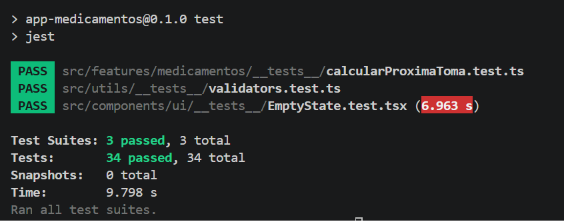
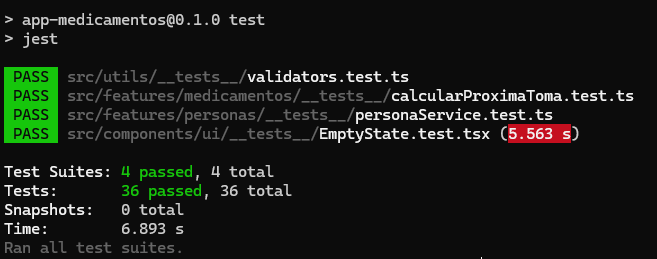
docs: actualizar README al estado del Parcial 2 y nueva captura
- Documenta funcionalidades de Unidad 8 y 9 (QR, Ubicacion, Contactos, Multimedia).

- Actualiza la estructura de carpetas con los nuevos servicios y tests.

- Reemplaza la captura de tests por la de 36 pruebas aprobadas.

- Actualiza version requerida de Node.

Changed region(s): [[0.0, 0.2443, 0.9645, 0.5701], [0.0, 0.5973, 1.0, 1.0], [0.0, 0.0543, 0.422, 0.19]]

diff --git a/README.md b/README.md
@@ -26,7 +26,7 @@ De las 5 opciones propuestas en el parcial, elegí **Recordatorio de medicación
 
 ### Requisitos previos
 
-- **Node.js 18+** (recomendado 22)
+- **Node.js 22.13.0** (versión utilizada en el desarrollo)
 - **Expo Go** instalado en el celular (Android o iOS) — [Play Store](https://play.google.com/store/apps/details?id=host.exp.exponent) / [App Store](https://apps.apple.com/app/expo-go/id982107779)
 - Para conexión LAN, PC y celular en **la misma red WiFi**
 
@@ -75,7 +75,7 @@ npm test
 
 Las pruebas cubren validaciones de formularios, cálculo de próximas tomas y el componente `EmptyState`.
 
-Resultado de la ejecución de Jest: 3 suites y 34 pruebas aprobadas.
+"Resultado de la ejecución de Jest: 4 suites y 36 pruebas aprobadas."
 
 ![Resultado de npm test](docs/test-result.svg)
 
@@ -87,65 +87,71 @@ La [captura original](docs/test.png) también queda guardada en `docs/`.
 
 ### Funcionalidades actuales
 
-- Cada cuenta tiene una ficha propia y puede crear fichas locales para otras personas. Los medicamentos se asignan a una ficha y Home permite cambiar entre ellas.
-- Los medicamentos admiten horarios por intervalo o por horas específicas del día, indicación opcional sobre comidas, observaciones y foto de referencia.
-- Se pueden registrar tomas realizadas u omitidas, consultar el historial y ver el próximo aviso.
-- Las tomas realizadas pueden guardar la dirección o las coordenadas obtenidas desde la ubicación del dispositivo; el historial muestra el lugar cuando está disponible.
-- Las notificaciones locales se programan según el plan cuando la plataforma y los permisos lo permiten. El aviso opcional de prueba no cambia el horario del medicamento.
-- Las fotos de medicamentos y la imagen de perfil se eligen con cámara o galería, se procesan y se guardan en el dispositivo.
-- Las fichas de otras personas pueden incluir un avatar; Home muestra las imágenes disponibles junto al saludo del usuario, la persona activa y cada opción del selector.
-- Las fichas de seguimiento permiten agregar y editar nombre, vínculo y contacto de emergencia desde la agenda del dispositivo.
-- El alta de medicamentos puede completar nombre y dosis al escanear un código QR con el formato `Nombre|Dosis`.
-- Desde la lista de fichas de seguimiento se puede tocar un nombre para abrir en Home los medicamentos de esa persona o los propios.
-- La interfaz tiene tema claro/oscuro, formularios adaptados al teclado, componentes de carga/error/vacío y etiquetas de accesibilidad en acciones principales.
+- **Gestión de Fichas y Personas**: Cada cuenta tiene una ficha propia y permite crear fichas para otras personas (modo cuidador). Los medicamentos se asignan a una ficha y Home permite cambiar entre ellas.
+- **Medicamentos y Horarios**: Alta y edición con dosis, horarios por intervalo o diarios, foto de referencia, indicaciones sobre comidas y observaciones.
+- **Registro de Tomas con Ubicación**: Al registrar una toma como realizada, se solicita permiso de GPS y se guarda la dirección o coordenadas en el historial.
+- **Escáner de Códigos QR**: Uso de `expo-camera` para leer códigos QR (formato `Nombre|Dosis`) y autocompletar el alta de medicamentos, o adjuntar texto directo a las observaciones.
+- **Contacto de Emergencia**: Integración con `expo-contacts` para asociar un contacto de la agenda a cada ficha de persona, con opción de editar o quitar.
+- **Notificaciones Locales**: Programación de avisos según el plan, con fallback vía `Alert` para compatibilidad con Expo Go.
+- **Multimedia**: Captura y selección de imágenes con cámara/galería (`expo-image-picker`), procesadas y guardadas localmente.
+- **UI/UX**: Tema claro/oscuro, navegación fluida con Expo Router, componentes accesibles y formularios adaptados al teclado.
 
 ### Alcance y limitaciones del prototipo
 
-- Las cuentas y los medicamentos se guardan localmente. El modo cuidador funciona en la misma cuenta y dispositivo; todavía no hay perfiles de cuidador ni sincronización entre dispositivos.
-- La autenticación es demostrativa: no existe un servidor y el token es simulado. Las contraseñas se guardan sin cifrar en AsyncStorage; en web el token usa `localStorage`. No usar datos reales de salud con este prototipo.
-- Si el permiso de notificaciones se deniega, el plan se guarda pero no se programan avisos. El fallback de Expo Go usa temporizadores de la app y no es fiable si se cierra la app; las notificaciones repetidas requieren soporte nativo.
-- El momento de comida y las observaciones son datos ingresados por el usuario a partir de sus indicaciones; la app no recomienda ni valida instrucciones médicas.
+- Las cuentas y los medicamentos se guardan 100% offline en el dispositivo (AsyncStorage).
+- La autenticación es demostrativa: no hay servidor backend y el token es simulado.
+- **Limitación de Expo Go**: Las notificaciones push nativas y de fondo están deshabilitadas. El fallback usa temporizadores locales que no son fiables si se cierra la app. Las notificaciones nativas reales requieren un Development Build.
+- Si se deniega el permiso de ubicación, la toma se registra exitosamente sin el dato geográfico.
 
 ### Autenticación local de demostración
 
 - Registro con nombre, email y contraseña (validación de formato y coincidencia).
-
 - Login con validación de credenciales contra los usuarios guardados en el dispositivo.
-
 - Sesión persistente: en móvil el token se guarda en SecureStore (Keychain iOS / Keystore Android); en web usa `localStorage`.
-
 - Bloqueo de acceso: no se puede entrar sin loguearse.
 
 ### Medicamentos y fichas
 
 - Alta y edición de medicamentos con dosis, horarios por intervalo o por horas diarias, indicaciones y foto opcional.
 - Escaneo de códigos QR `Nombre|Dosis` para completar nombre y dosis durante el alta o edición.
-
 - Lista con estado de la toma (pendiente / tomada / omitida) y colores.
-
 - Registrar una toma como realizada, con confirmación.
 - Guardar la ubicación disponible al registrar una toma realizada y consultarla en el historial.
-
 - Eliminar medicamento con confirmación.
-
 - Fichas de personas en el mismo dispositivo; persistencia local aislada por cuenta.
 - Edición de fichas de seguimiento y selección de contacto de emergencia desde la agenda.
 
 ### Notificaciones locales
 
 - Se programa una notificación personalizada con el nombre del usuario y el medicamento al dar de alta.
-
 - Permisos solicitados al usuario en el primer uso.
-
 - Cancelación automática al cerrar sesión (evita alertas del usuario anterior).
 
 ### Tema claro / oscuro
 
 - Detecta automáticamente el tema del sistema operativo.
-
 - Toggle manual desde el Perfil.
-
 - Sincronización con React Native Paper.
+
+---
+
+## Notas técnicas
+
+### Navegación con Expo Router
+El proyecto usa expo-router, que es la capa oficial de navegación de Expo y está construida sobre React Navigation (@react-navigation/native-stack por debajo). Aporta file-based routing: cada archivo en app/ es una ruta automáticamente.
+
+### Notificaciones locales en Expo Go Android
+El proyecto usa expo-notifications con un fallback con Alert.alert cuando el módulo nativo no está disponible, manteniendo la funcionalidad del recordatorio en Expo Go. En iOS o en un development build la notificación nativa se dispara normalmente.
+
+### Aislamiento de datos por usuario
+Cada medicamento guarda el userEmail del usuario que lo creó. El servicio filtra por ese email, por lo que cada cuenta ve únicamente sus propios medicamentos.
+
+### Pruebas incluidas
+- **Funciones puras** (`validators.ts`): validan formato de email, longitud de contraseña y coincidencia de campos.
+- **Componente reutilizable** (`EmptyState.tsx`): verifica su renderizado y contenido.
+- **Cálculos de horarios** (`calcularTomas.ts`): cubren el cálculo de próximas tomas.
+- **Servicio de personas** (`personaService.ts`): cubre la inicialización de fichas y creación de perfiles usando mocks de AsyncStorage.
+- Ejecutar con: `npm test`.
 
 ---
 
@@ -184,15 +190,15 @@ En Perfil, tocá el avatar para tomar una foto, elegir una imagen de la galería
 ## Estructura del proyecto
 
 ```text
-AppMedicamentos/
+medi-recordatorio/
 ├── app/                          # Rutas (Expo Router, file-based)
 │   ├── _layout.tsx               # Stack raíz + Providers (SafeArea, Theme, Auth)
 │   ├── index.tsx                 # Login
 │   ├── register.tsx              # Registro
 │   ├── personas.tsx              # Administración de fichas de personas
 │   ├── medicamento/
-│   │   ├── nuevo.tsx             # Alta y edición de medicamentos
-│   │   └── [id]/historial.tsx    # Historial de tomas
+│   │   ├── nuevo.tsx             # Alta y edición de medicamentos (incluye Escáner QR)
+│   │   └── [id]/historial.tsx    # Historial de tomas (con ubicación)
 │   └── (tabs)/                   # Grupo de tabs
 │       ├── _layout.tsx           # Tab Navigator
 │       ├── home.tsx              # Lista de medicamentos
@@ -202,31 +208,30 @@ AppMedicamentos/
 │   ├── components/ui/            # Componentes presentacionales reutilizables
 │   │   ├── EmptyState.tsx
 │   │   ├── ErrorState.tsx
+│   │   ├── ImagePickerField.tsx
 │   │   ├── LoadingState.tsx
 │   │   ├── ScreenHeader.tsx
-│   │   ├── ImagePickerField.tsx
-│   │   └── __tests__/
-│   │       └── EmptyState.test.tsx
+│   │   └── __tests__/            # Pruebas de componentes (EmptyState)
 │   ├── config/
 │   │   └── constants.ts          # Estados, frecuencias, claves de storage
-│   ├── features/
+│   ├── features/                 # Lógica de dominio (negocio)
 │   │   ├── auth/                 # AuthContext + useAuth
 │   │   ├── medicamentos/         # Datos, horarios y estado de medicamentos
 │   │   │   └── __tests__/        # Pruebas de cálculos de horarios
 │   │   ├── personas/             # Fichas locales
+│   │   │   └── __tests__/        # Pruebas de personaService (mocks)
 │   │   └── notifications/        # Programación y sincronización de avisos
-│   ├── services/
+│   ├── services/                 # Servicios de infraestructura/hardware
 │   │   ├── contactService.ts     # Selección de contactos de emergencia
 │   │   ├── locationService.ts    # Ubicación y geocodificación inversa
 │   │   ├── mediaService.ts       # Procesamiento y persistencia de imágenes
-│   │   ├── storage.ts            # Wrapper de AsyncStorage
-│   │   └── secureStorage.ts      # Wrapper de SecureStore (mobile) / localStorage (web)
+│   │   ├── secureStorage.ts      # Wrapper de SecureStore (mobile) / localStorage (web)
+│   │   └── storage.ts            # Wrapper de AsyncStorage
 │   ├── theme/                    # Tema claro/oscuro
 │   └── utils/
-│       ├── validators.ts         # Funciones puras de validación
 │       ├── dialogs.ts            # Diálogos cross-platform
-│       └── __tests__/
-│           └── validators.test.ts
+│       ├── validators.ts         # Funciones puras de validación
+│       └── __tests__/            # Pruebas de validadores
 │
 ├── app.json                      # Configuración de Expo
 ├── package.json                  # Dependencias + scripts
@@ -270,23 +275,3 @@ Duración: 1:50.
 
 Muestra el flujo completo: login → alta de medicamento → notificación personalizada → marcar tomado → modo oscuro.
 
-## Notas técnicas
-
-### Navegación con Expo Router
-
-El proyecto usa expo-router, que es la capa oficial de navegación de Expo y está construida sobre React Navigation (@react-navigation/native-stack por debajo). Aporta file-based routing: cada archivo en app/ es una ruta automáticamente.
-
-### Notificaciones locales en Expo Go Android
-
-El proyecto usa expo-notifications con un fallback con Alert.alert cuando el módulo nativo no está disponible, manteniendo la funcionalidad del recordatorio en Expo Go. En iOS o en un development build la notificación nativa se dispara normalmente.
-
-### Aislamiento de datos por usuario
-
-Cada medicamento guarda el userEmail del usuario que lo creó. El servicio filtra por ese email, por lo que cada cuenta ve únicamente sus propios medicamentos.
-
-### Pruebas incluidas
-
-- **Funciones puras** (`validators.ts`): validan formato de email, longitud de contraseña y coincidencia de campos.
-- **Componente reutilizable** (`EmptyState.tsx`): verifica su renderizado y contenido.
-- **Cálculos de horarios** (`calcularTomas.ts`): cubren el cálculo de próximas tomas.
-- Ejecutar con: `npm test`.
